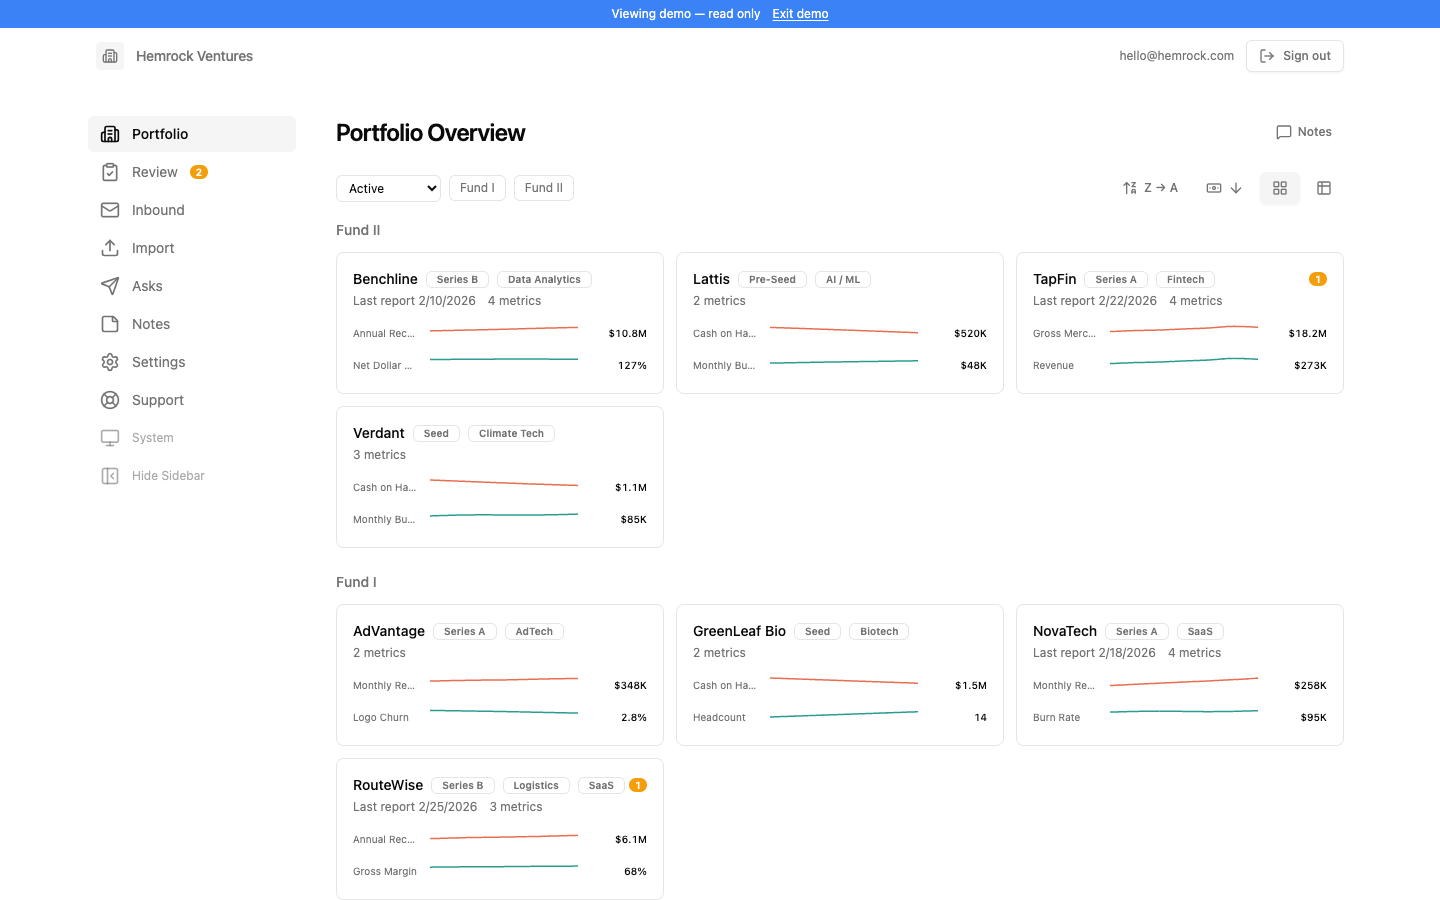
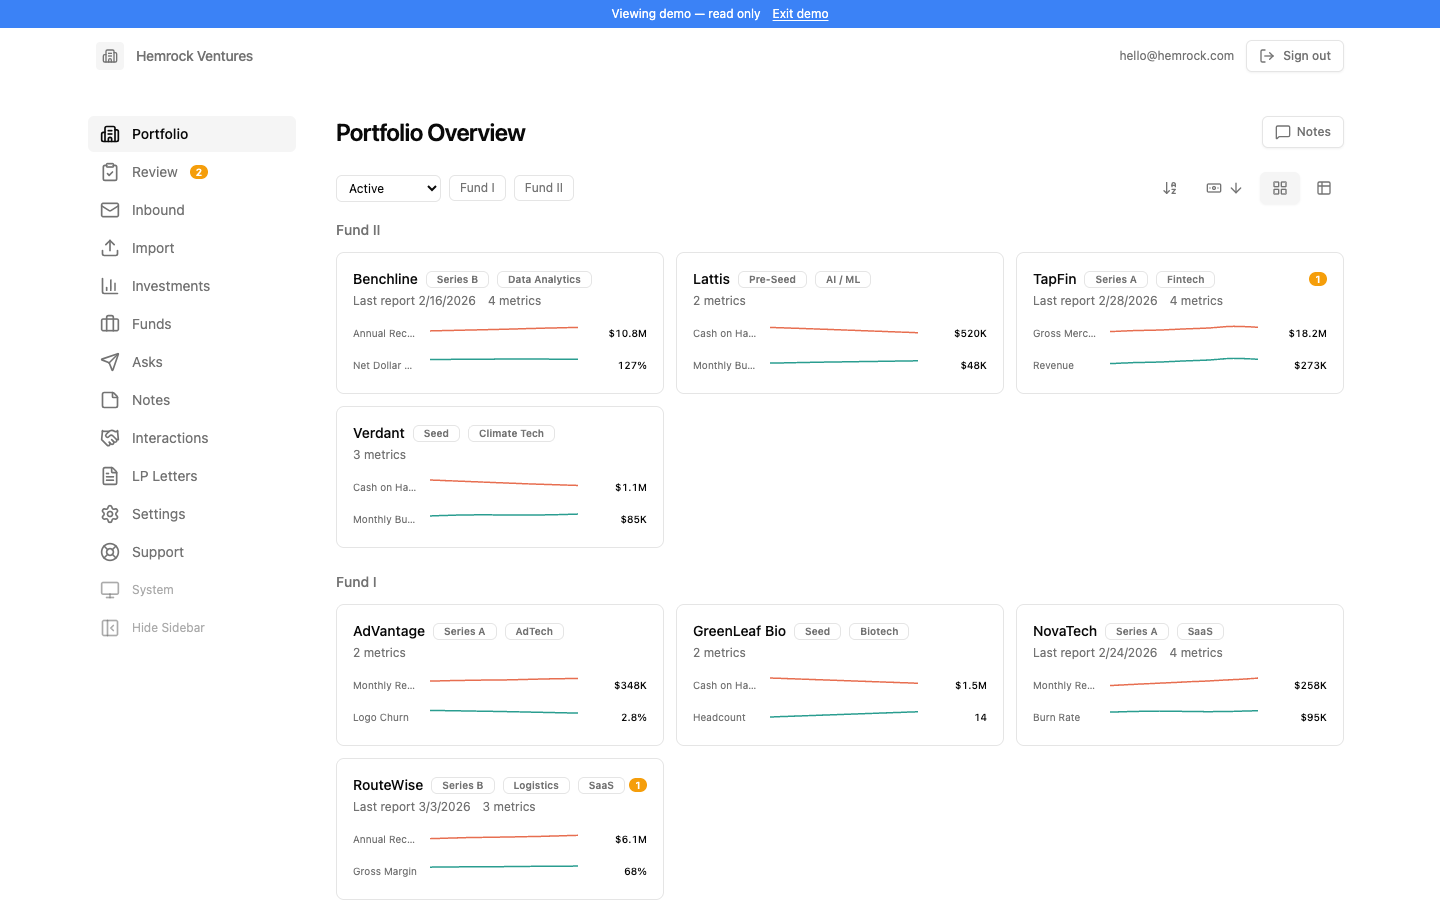
update intro and readme

diff --git a/app/page.tsx b/app/page.tsx
@@ -14,8 +14,12 @@ const screenshots = [
   { src: '/screenshots/inbound.png', label: 'Inbound Emails' },
   { src: '/screenshots/email-detail.png', label: 'Email Detail' },
   { src: '/screenshots/import.png', label: 'Import' },
+  { src: '/screenshots/investments.png', label: 'Investments' },
+  { src: '/screenshots/funds.png', label: 'Funds' },
   { src: '/screenshots/asks.png', label: 'Asks' },
   { src: '/screenshots/notes.png', label: 'Notes' },
+  { src: '/screenshots/interactions.png', label: 'Interactions' },
+  { src: '/screenshots/letters.png', label: 'LP Letters' },
   { src: '/screenshots/settings.png', label: 'Settings' },
 ]
 
@@ -79,12 +83,13 @@ export default function LandingPage() {
             </a>
           </p>
           <p className="text-base text-muted-foreground max-w-2xl">
-            A portfolio reporting tool for venture capital funds. Portfolio companies send
-            their quarterly updates in any format — PDF, Excel, PowerPoint, or plain text —
-            and AI automatically identifies the company, extracts the metrics you&apos;ve
-            configured, stores everything as time-series data, and creates an analysis of
-            new updates and trends. The dashboard gives you a live view of your portfolio
-            with fund-level, portfolio-level, and individual company details.
+            Portfolio reporting for venture capital firms, accelerators, and angel investors.
+            Forward your investor updates in any format — PDF, Excel, PowerPoint, plain
+            text — and AI identifies the company, extracts the metrics you care about, and
+            creates an analysis of the current state of the company. Track investments at a
+            per company, per fund, and overall perspective alongside your fund administrator.
+            Lightweight CRM to track your intros, strategy guidance, qualitative value-adds.
+            Complete your limited partner reporting process faster, easier, and better.
           </p>
         </div>
 
@@ -241,6 +246,15 @@ export default function LandingPage() {
             </div>
           </div>
         </section>
+
+        {/* Fractional CFO */}
+        <div className="text-center text-sm text-muted-foreground">
+          Need a fractional CFO?{' '}
+          <a href="https://foresight.is/fractional-cfo/" className="underline hover:text-foreground">
+            Learn more here
+          </a>
+          .
+        </div>
       </div>
     </div>
   )

diff --git a/README.md b/README.md
@@ -1,6 +1,6 @@
 # Fund Portfolio Reporting
 
-A portfolio reporting tool for venture capital funds, available for self-hosting, managed deployments, and as a hosted solution. Portfolio companies send their quarterly updates in any format — PDF, Excel, PowerPoint, or plain text — to you via email or directly to the platform, and AI automatically identifies the company, extracts the metrics you've configured, stores everything as time-series data, and creates an analysis of the new updates and trends. Add investment details to see investments and returns on a per-company basis. The dashboard gives you a live view of your portfolio, with the ability to see fund-level, portfolio-level, and individual company details. Simplify the data collection process and build portfolio intelligence easier.
+Portfolio reporting for venture capital firms, accelerators, and angel investors. Forward your investor updates in any format — PDF, Excel, PowerPoint, plain text — and AI identifies the company, extracts the metrics you care about, and creates an analysis of the current state of the company. Track investments at a per company, per fund, and overall perspective alongside your fund administrator. Lightweight CRM to track your intros, strategy guidance, qualitative value-adds. Complete your limited partner reporting process faster, easier, and better.
 
 Built by Taylor Davidson at [Hemrock](https://www.hemrock.com). For setup assistance, managed deployments, or general questions, [contact Taylor](https://www.hemrock.com/contact).
 
@@ -93,6 +93,8 @@ The Investments page provides a fund-level view of all investment transactions a
 
 Realized/Cost MOIC is calculated as realized proceeds divided by the cost basis exited. Unrealized/Cost MOIC is unrealized value divided by current cost (total invested minus cost basis exited). These provide a more precise view of returns relative to the capital actually at work, rather than total invested capital.
 
+![Investments](docs/screenshots/investments.png)
+
 ## Funds
 
 The Funds page tracks fund-level cash flows and computes LP return metrics per portfolio group. Each portfolio group gets its own tab showing:
@@ -111,6 +113,8 @@ Key calculations:
 
 Cash flow data can be bulk-imported from the Import page using freeform text — the AI parses dates, amounts, types, and group assignments automatically.
 
+![Funds](docs/screenshots/funds.png)
+
 ## LP Letters
 
 LP Letters helps you generate quarterly update letters for your limited partners. Using AI and your portfolio data — reported metrics, company summaries, investment performance, and team notes — the system drafts professional LP communications scoped to a specific portfolio group and reporting period.
@@ -124,6 +128,8 @@ LP Letters helps you generate quarterly update letters for your limited partners
 **Editing** — after generation, the letter opens in an editor with two views: "Sections" shows each company narrative individually for targeted editing, and "Full" shows the complete assembled letter. Edit narratives inline, regenerate individual company sections or the entire letter, and add per-company or global custom prompts to refine the output. Per-company prompts can either add to or replace the default generation prompt.
 
 **Export** — export the finished letter as a .docx file for final formatting and distribution. If Google Drive is connected, export directly to Drive.
+
+![LP Letters](docs/screenshots/letters.png)
 
 ## Asks
 
@@ -168,6 +174,8 @@ For each interaction, AI generates a short summary, detects whether the email co
 The Interactions page shows all logged interactions with filter tabs for **All** and **Intros**. Each entry displays the date, linked company, subject, AI summary, and an intro badge when introductions were detected. Expand intro details to see names, emails, and context of introduced contacts.
 
 On each company's detail page, a **Recent Interactions** section shows the latest interactions for that company, with intro entries highlighted. The fund's inbound email address is shown at the top of the Interactions page for easy copy-and-paste into BCC.
+
+![Interactions](docs/screenshots/interactions.png)
 
 ## Settings
 
